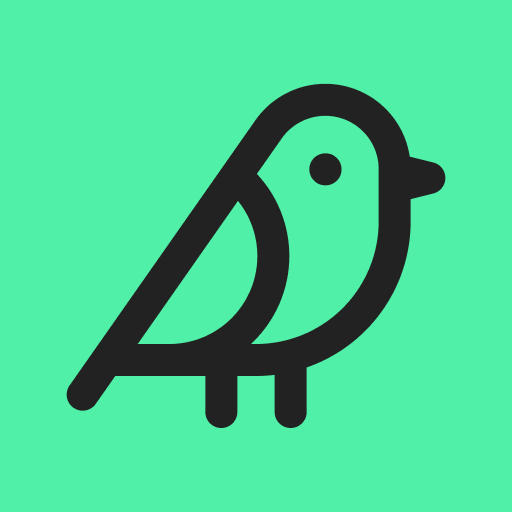
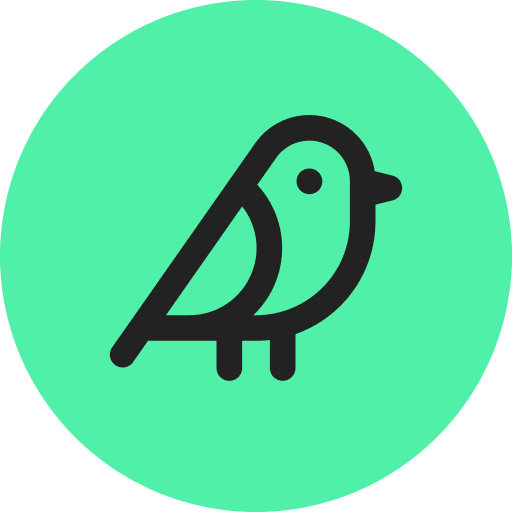
v7: endpoint debug + toast con orden de Tuya
El user reportó que el sort sigue mal y el console.log queda
cacheado en mobile (mostraba el formato viejo \"sort values\"
en vez del console.table del v6).

Dos approaches a prueba de cache:

1. **Toast description ahora incluye el orden completo** que
   Tuya devolvió. Se ve directo en pantalla sin DevTools, y
   refleja siempre el último deploy ejecutado en el server.

2. **Endpoint nuevo `/api/admin/tuya/inspect-rooms`** (GET,
   read-only, no modifica nada). El user lo abre directo en
   el browser y ve un JSON con:
   - Lo que Tuya devuelve por home (tuya_rooms con idx + sort)
   - Lo que tenemos en DB (db_rooms con sort_order actual)
   - Side-by-side para diagnosticar discrepancia

diff --git a/src/app/api/admin/tuya/inspect-rooms/route.ts b/src/app/api/admin/tuya/inspect-rooms/route.ts
@@ -1,0 +1,101 @@
+import { NextResponse } from "next/server";
+import { requireRole } from "@/lib/auth";
+import { tuyaFetch } from "@/lib/tuya/client";
+import { listDevicesGroupedByHome } from "@/lib/tuya/devices";
+import { createAdminClient } from "@/lib/supabase/admin";
+
+/**
+ * Read-only endpoint para inspeccionar el orden actual de rooms (WIK-98
+ * debug). Devuelve, por cada home Tuya:
+ *   - el orden que Tuya devuelve (array idx → name + sort)
+ *   - el orden que tenemos en la DB
+ *
+ * Útil para diagnosticar por qué el sort_order no refleja Smart Life.
+ * No modifica nada — el user lo abre directo en el browser:
+ *   https://admin.example.com/api/admin/tuya/inspect-rooms
+ */
+export async function GET() {
+  await requireRole(["admin"]);
+  const admin = createAdminClient();
+
+  const grouped = await listDevicesGroupedByHome();
+  if (!grouped.user) {
+    return NextResponse.json(
+      { error: "no Tuya app user linked" },
+      { status: 400 },
+    );
+  }
+
+  const result: Array<{
+    home: { id: string; name: string };
+    tuya_rooms: Array<{
+      tuya_idx: number;
+      tuya_room_id: string;
+      name: string;
+      tuya_sort: number | null;
+    }>;
+    db_rooms: Array<{
+      id: string;
+      tuya_room_id: string | null;
+      name: string;
+      sort_order: number;
+    }>;
+  }> = [];
+
+  for (const { home } of grouped.homes) {
+    const homeIdStr = String(home.home_id);
+
+    // 1. Lo que devuelve Tuya.
+    type TuyaRoom = {
+      room_id: number | string;
+      name: string;
+      sort?: number;
+    };
+    let tuyaRooms: TuyaRoom[] = [];
+    try {
+      const r = await tuyaFetch<TuyaRoom[] | { rooms?: TuyaRoom[] }>(
+        "GET",
+        `/v1.0/homes/${home.home_id}/rooms`,
+      );
+      tuyaRooms = Array.isArray(r) ? r : (r?.rooms ?? []);
+    } catch (e) {
+      result.push({
+        home: { id: homeIdStr, name: home.name },
+        tuya_rooms: [],
+        db_rooms: [],
+      });
+      continue;
+    }
+
+    // 2. Lo que tenemos en DB para todas las properties (no podemos
+    //    asociar el home a una property específica acá sin replicar
+    //    la lógica de matching — el debug muestra todos los rooms y
+    //    el user los relaciona visualmente).
+    const tuyaRoomIds = tuyaRooms.map((r) => String(r.room_id));
+    const { data: dbRooms } = await admin
+      .from("rooms")
+      .select("id, tuya_room_id, name, sort_order")
+      .in("tuya_room_id", tuyaRoomIds)
+      .order("sort_order", { ascending: true });
+
+    result.push({
+      home: { id: homeIdStr, name: home.name },
+      tuya_rooms: tuyaRooms.map((r, idx) => ({
+        tuya_idx: idx,
+        tuya_room_id: String(r.room_id),
+        name: String(r.name ?? ""),
+        tuya_sort: typeof r.sort === "number" ? r.sort : null,
+      })),
+      db_rooms: (dbRooms ?? []).map((r) => ({
+        id: r.id as string,
+        tuya_room_id: (r.tuya_room_id as string) ?? null,
+        name: r.name as string,
+        sort_order: r.sort_order as number,
+      })),
+    });
+  }
+
+  return NextResponse.json({ inspected_at: new Date().toISOString(), homes: result }, {
+    headers: { "Cache-Control": "no-store" },
+  });
+}

diff --git a/src/app/admin/tuya/sync-rooms-button.tsx b/src/app/admin/tuya/sync-rooms-button.tsx
@@ -67,25 +67,24 @@ export function SyncRoomsButton() {
           0,
         );
 
-        // Log de debug. Usamos console.table porque .info colapsa el
-        // array y no se ve nada. Lo importante a chequear:
-        //   - tuya_idx vs nombre: confirma que Smart Life devuelve los
-        //     rooms en el orden visual real
-        //   - computed_sort vs previous_sort_in_db: confirma que
-        //     estamos persistiendo el orden nuevo
-        //   - action="updated" o "noop"
-        if (typeof window !== "undefined") {
-          for (const s of synced) {
-            // eslint-disable-next-line no-console
-            console.group(`[sync-rooms] ${s.property} (home: ${s.home})`);
-            // eslint-disable-next-line no-console
-            console.table(s.tuya_order);
-            // eslint-disable-next-line no-console
-            console.groupEnd();
-          }
-        }
+        // Debug: incluimos el orden completo en el toast description.
+        // Antes lo logueábamos a console pero el JS bundle queda
+        // cacheado en mobile y el user no veía la versión nueva.
+        // En pantalla siempre se ve la última corrida.
+        const tuyaOrderDebug = synced
+          .map((s) => {
+            const order = (s.tuya_order ?? [])
+              .map(
+                (r) =>
+                  `${r.tuya_idx + 1}. ${r.name}${r.action !== "noop" ? ` (${r.action})` : ""}`,
+              )
+              .join("\n");
+            return `${s.property}:\n${order}`;
+          })
+          .join("\n\n");
 
-        // Detalle por property: incluye renames y reorders en el toast.
+        // Detalle por property: incluye renames y reorders en el toast,
+        // seguido del orden completo de Tuya para debug.
         const detail = [
           ...synced.map((s) => {
             const parts: string[] = [];
@@ -97,6 +96,9 @@ export function SyncRoomsButton() {
             return `${s.property}: ${parts.length ? parts.join(", ") : "sin cambios"}`;
           }),
           ...skipped.map((s) => `⚠ ${s.home}: ${s.reason}`),
+          "",
+          "Orden de Tuya:",
+          tuyaOrderDebug,
         ].join("\n");
 
         const totalChanges =